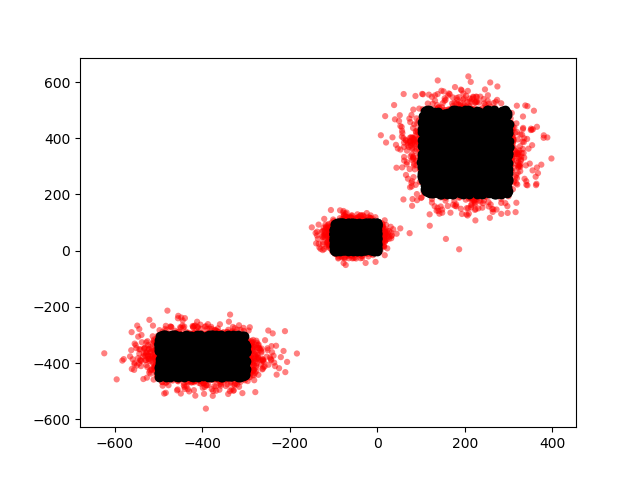
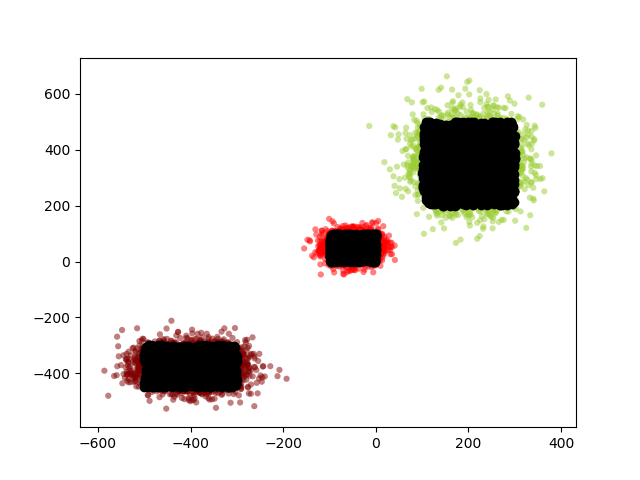
final Version, Delivery

diff --git a/expectation_max.py b/expectation_max.py
@@ -77,13 +77,15 @@ class Expectation_maximization():
 
 
     def generateMu(self):
-        return np.array([[random.randint(-500, 500)], [random.randint(-500, 500)]])
+        return np.array([[random.randint(-10, 10)], [random.randint(-10, 10)]])
 
     def generateSigma(self):
         sigma = np.array([[1,0],[0,1]]) * random.random()
         return np.array(sigma)
 
     def generate_pis(self, k_values):
+        if (k_values == 1):
+            return [1]
         piCuts = sorted([random.random() for i in range(k_values - 1)])
         pis = [piCuts[0]]
         for i in range(1, len(piCuts)):
@@ -98,11 +100,14 @@ class Expectation_maximization():
         return values
 
     def plot_gaussians(self, gaussians, sample):
+        colors = ['r', 'maroon', 'yellowgreen', 'palegreen', 'b', 'pink', 'purple', 'olive']
+        counter = 0
         figures = []
         for gaussian in gaussians:
             figures.append(np.random.multivariate_normal([gaussian.mu[0,0], gaussian.mu[1,0]], gaussian.sigma, sample))
         for figure in figures:
-            plt.scatter(figure[:,0],figure[:,1],c='r',s=20,edgecolors='none', alpha=0.5)
+            plt.scatter(figure[:,0],figure[:,1],c=colors[counter],s=20,edgecolors='none', alpha=0.5)
+            counter += 1
         plt.show()
 
     def plot_gaussians2(self, gaussians, data_set):

diff --git a/main.py b/main.py
@@ -10,7 +10,7 @@ from gaussian import Gaussian
 
 data = []
 
-with open('generatedPoints.txt') as f:
+with open('test_gmm_4.txt') as f:
     for line in f: 
         # print(line, end='')
         value = line.split(' ')
@@ -30,8 +30,8 @@ data_set = np.asarray(data_set)
 
 plt.plot(data_set[:,0], data_set[:,1], 'o', color='black');
 
-
-expectation_object = Expectation_maximization(data_set, 3, 150)
+k_gaussians = int(input("Enter cluster quantity: "))
+expectation_object = Expectation_maximization(data_set, k_gaussians, 150)
 
 while (True):
     vector = input("Enter point: ")
